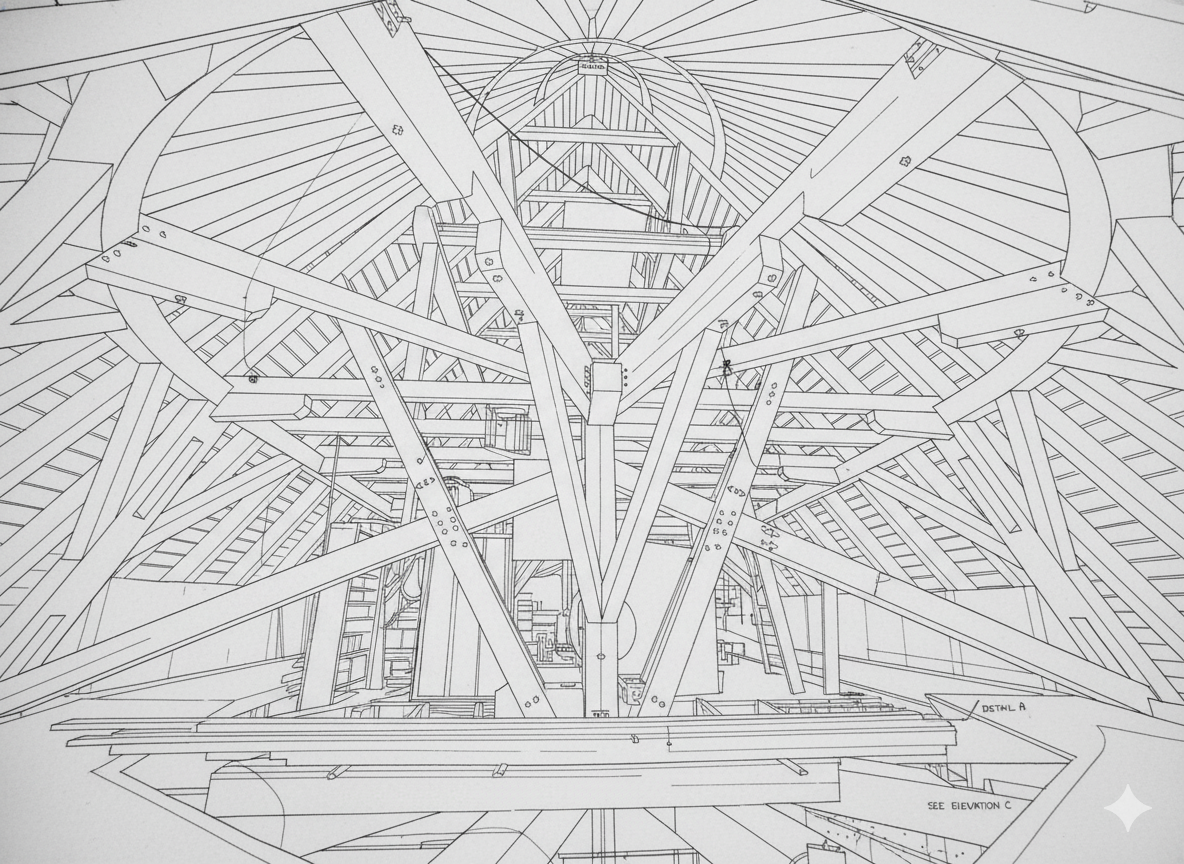
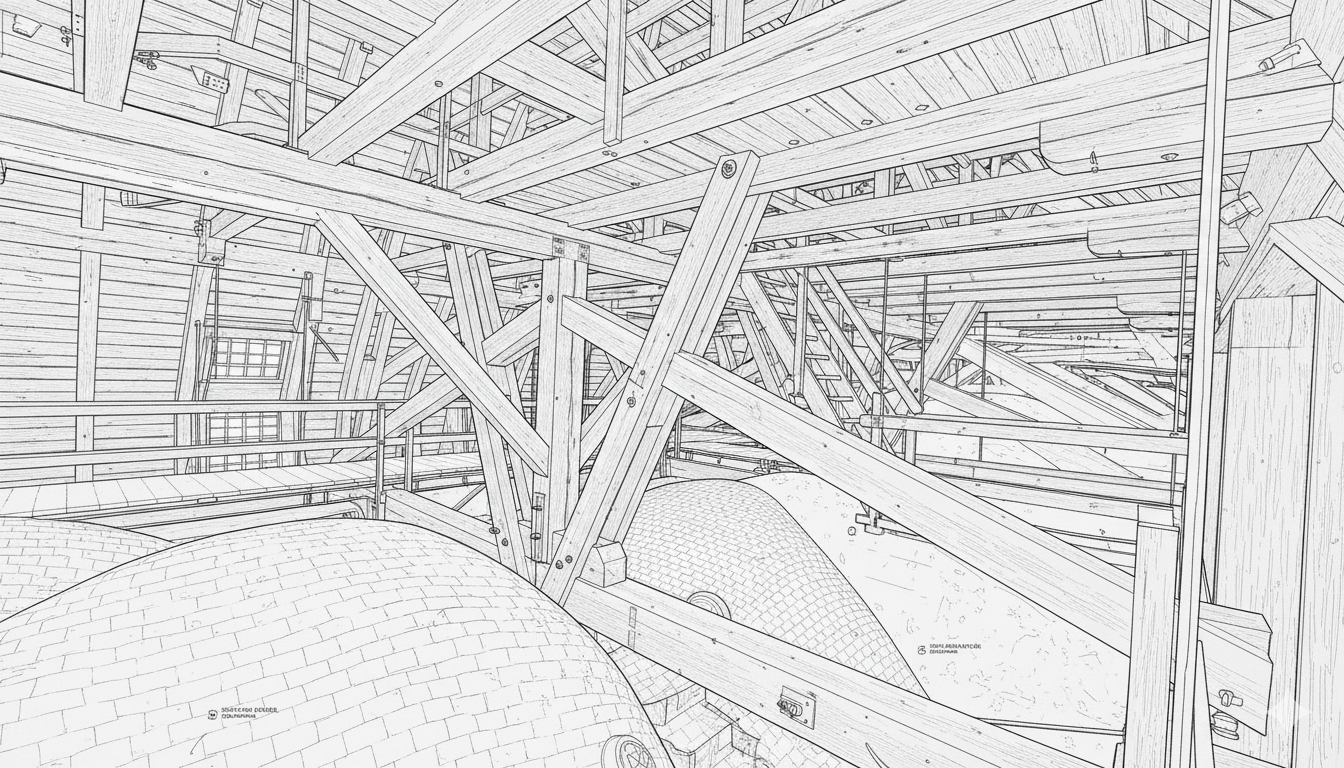
feat: added math questions to the dots

diff --git a/src/pages/EquationsOne.jsx b/src/pages/EquationsOne.jsx
@@ -1,26 +1,112 @@
-import React from 'react';
+import React, { useState } from 'react';
 import HeaderNav from '../components/HeaderNav.jsx';
 import InfoDot from '../components/InfoDot.jsx'; // Import the new component
 import { Link } from 'react-router';
 import './EquationsOne.sass';
 
 export default function EquationsOne() {
+	const [ep1Message, setEp1Message] = useState('');
+	const [ep2Message, setEp2Message] = useState('');
+	const [ep3Message, setEp3Message] = useState('');
+
+	function handleSubmitEq1(event) {
+		event.preventDefault();
+		const answer = event.target.answerInput.value;
+		if (answer === '0.12') {
+			setEp1Message(
+				'Correct! - Fun fact: All the beams are made from Douglas fir.'
+			);
+		} else {
+			setEp1Message('Incorrect, please try again.');
+		}
+	}
+
+	function handleSubmitEq2(event) {
+		event.preventDefault();
+		const answer = event.target.answerInput.value;
+		if (answer === '35') {
+			setEp2Message(
+				'Correct! - Fun fact: 38 kings and queens are buried here. Including Harald Bluetooth.'
+			);
+		} else {
+			setEp2Message('Incorrect, please try again.');
+		}
+	}
+
+	function handleSubmitEq3(event) {
+		event.preventDefault();
+		const answer = event.target.answerInput.value;
+		if (answer === '135') {
+			setEp3Message(
+				'Correct! - Fun fact: The beams attached to the walls are called flying buttresses.'
+			);
+		} else {
+			setEp3Message('Incorrect, please try again.');
+		}
+	}
+
 	return (
 		<>
 			<HeaderNav />
 			<div className="equations-one-page">
 				<h1>Equations One</h1>
 				<div className="equations-one-page__calculation-container">
-					<InfoDot top="30%" left="20%">
-						Equation 1 info...
+					<InfoDot top="21%" left="20%">
+						<p>What is the volume of the wooden beam?</p>
+						<p>V = l * b * h</p>
+						<p>Given: l = 2m, b = 0.2m, h = 0.3m</p>
+						<p>Calculate the volume using the formula above.</p>
+						<form onSubmit={handleSubmitEq1}>
+							<input
+								type="text"
+								placeholder="Your answer here"
+								className="input"
+								name="answerInput"
+							/>
+							<input type="submit" value="Submit" className="submitBtn" />
+						</form>
+						{ep1Message && <p className="feedback-message">{ep1Message}</p>}
 					</InfoDot>
 
-					<InfoDot top="50%" left="50%">
-						Equation 2 info...
+					<InfoDot top="50%" left="51%">
+						<p>What is the angle of C & B?</p>
+						<p>
+							Given: triangle ABC is isosceles, and that the angle opposite the
+							base is 110°.
+						</p>
+						<p>We know that the sum of the angles in a triangle is 180°.</p>
+						<form onSubmit={handleSubmitEq2}>
+							<input
+								type="text"
+								placeholder="Your answer here"
+								className="input"
+								name="answerInput"
+							/>
+							<input type="submit" value="Submit" className="submitBtn" />
+						</form>
+						{ep2Message && <p className="feedback-message">{ep2Message}</p>}
 					</InfoDot>
 
-					<InfoDot top="70%" left="80%">
-						Equation 3 info...
+					<InfoDot top="75%" left="80%">
+						<p>What is the weight of the wooden beam?</p>
+						<p>Given: Height 30cm Width 15cm Length 5m density 530kg/m</p>
+						<p>
+							Use the following formula to calculate volume: Length x Width x
+							Height.
+						</p>
+						<p>
+							Then calculate weight using density Weight = Density * Volume.
+						</p>
+						<form onSubmit={handleSubmitEq3}>
+							<input
+								type="text"
+								placeholder="Your answer here"
+								className="input"
+								name="answerInput"
+							/>
+							<input type="submit" value="Submit" className="submitBtn" />
+						</form>
+						{ep3Message && <p className="feedback-message">{ep3Message}</p>}
 					</InfoDot>
 				</div>
 				<p>Once you've solved these, click below to continue your adventure!</p>

diff --git a/src/pages/EquationsTwo.jsx b/src/pages/EquationsTwo.jsx
@@ -11,26 +11,21 @@ export default function EquationsTwo() {
 			<div className="equations-two-page">
 				<h1>Equations Two</h1>
 				<div className="equations-two-page__calculation-container">
-					<InfoDot top="32%" left="40.2%">
-						Equation 1 info...
+					<InfoDot top="33.5%" left="55%">
+						<p>Solve for x: 2x + 3 = 11</p>
 					</InfoDot>
 
-					<InfoDot top="60%" left="65%">
-						Equation 2 info...
+					<InfoDot top="55%" left="65%">
+						<p>Solve for y: 5y - 4 = 16</p>
 					</InfoDot>
 
-					<InfoDot top="89%" left="60%">
-						Equation 3 info...
+					<InfoDot top="40%" left="80%">
+						<p>Solve for z: 3z + 2 = 14</p>
 					</InfoDot>
 					<p>
 						Welcome to the second set of equations! Solve these to continue your
 						adventure.
 					</p>
-					<ul>
-						<li>Solve for x: 2x + 3 = 11</li>
-						<li>Solve for y: 5y - 4 = 16</li>
-						<li>Solve for z: 3z + 2 = 14</li>
-					</ul>
 				</div>
 
 				<p>

diff --git a/src/pages/EquationsOne.sass b/src/pages/EquationsOne.sass
@@ -1,12 +1,13 @@
 .equations-one-page
     display: flex
     flex-direction: column
+    padding: 20px
 
     &__calculation-container
         display: flex
         flex-direction: column
         align-items: center
-        background-image: url('../assets/domkirke_stregtegning_5.png')
+        background-image: url('../assets/domkirke_stregtegning_1.png')
         background-repeat: no-repeat
         background-position: center
         background-size: cover

diff --git a/src/pages/EquationsTwo.sass b/src/pages/EquationsTwo.sass
@@ -6,7 +6,7 @@
         display: flex
         flex-direction: column
         align-items: center
-        background-image: url('../assets/domkirke_stregtegning_1.png')
+        background-image: url('../assets/domkirke_stregtegning_2.png')
         background-repeat: no-repeat
         background-position: center
         background-size: cover
